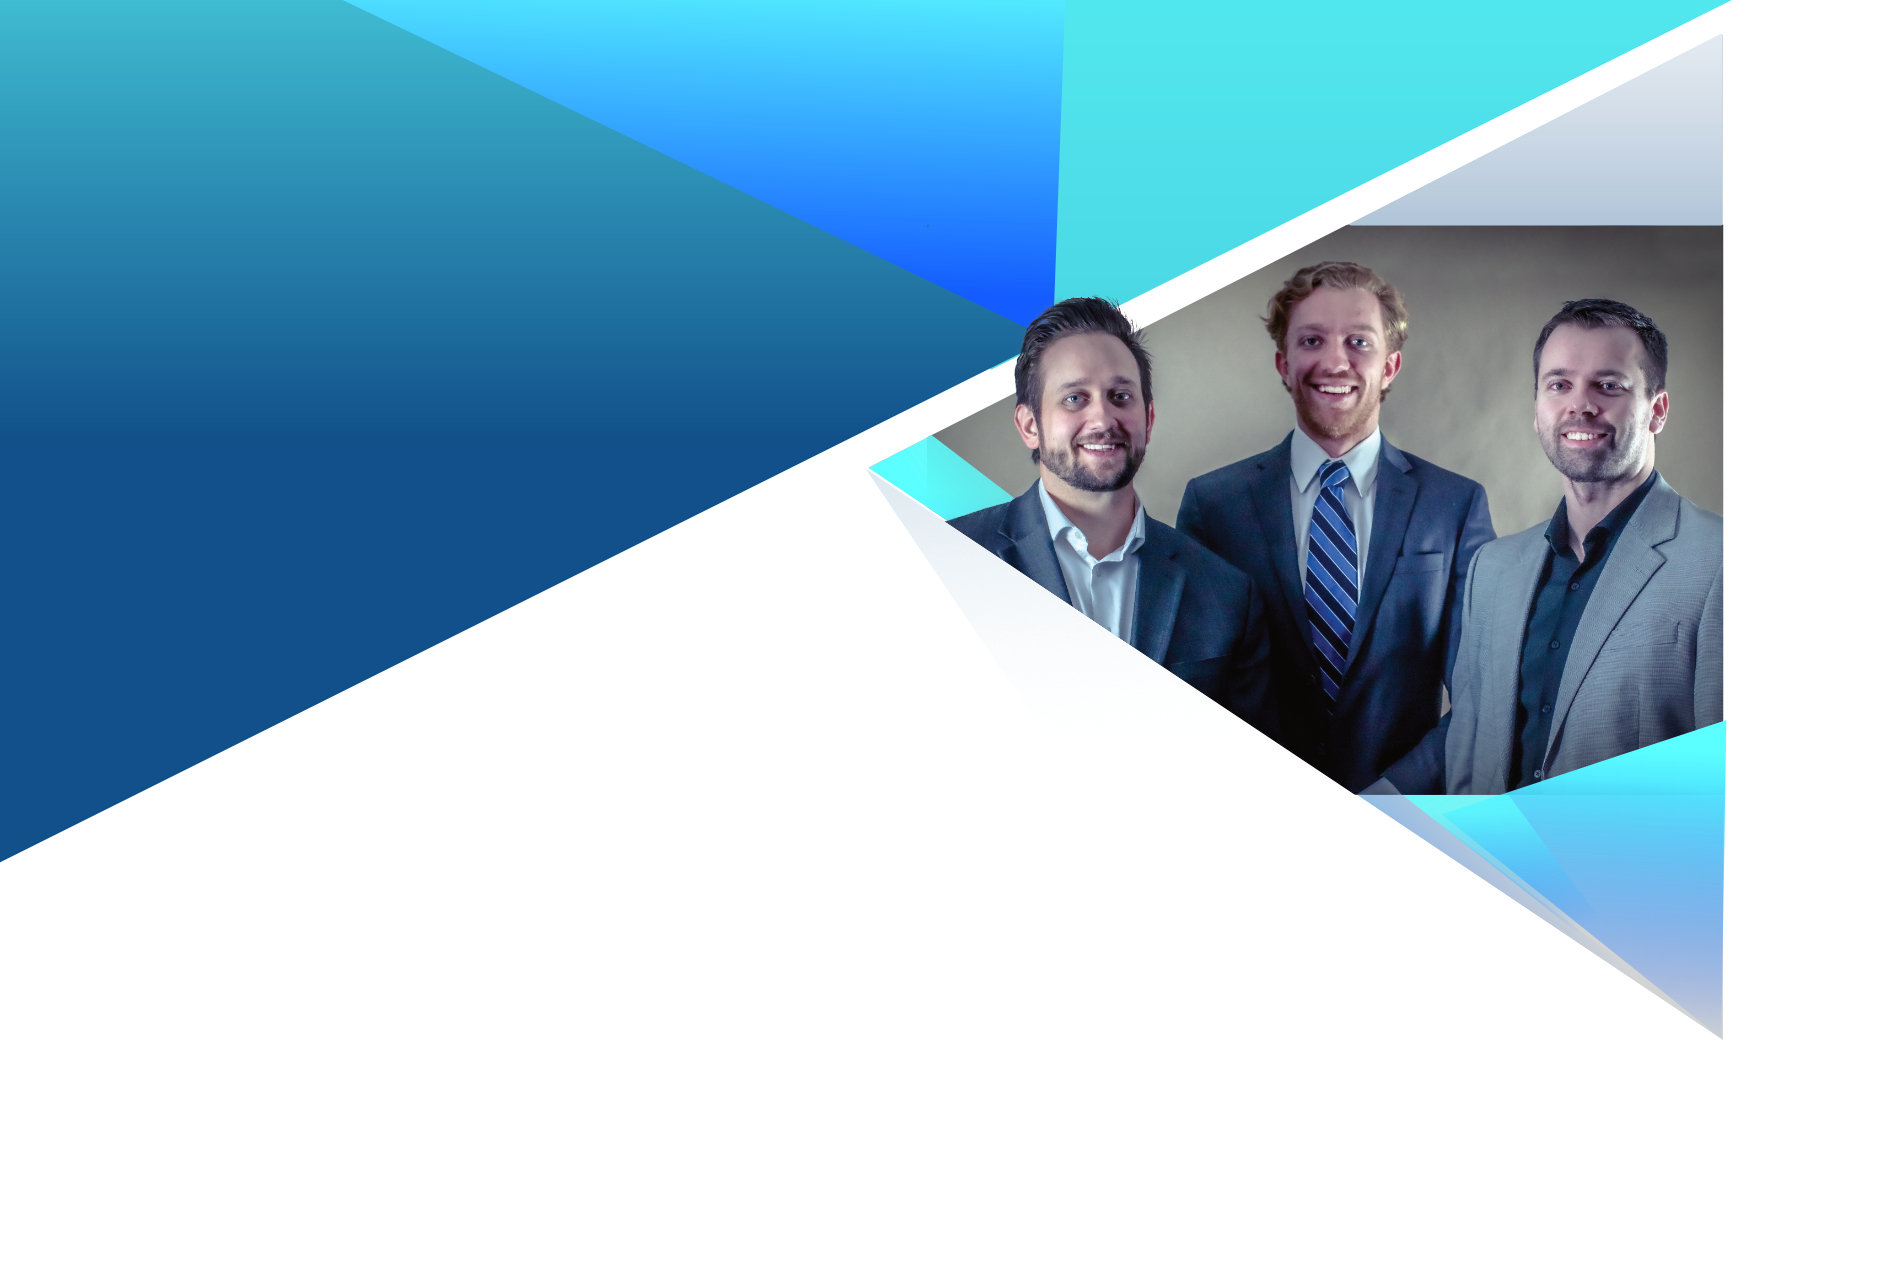
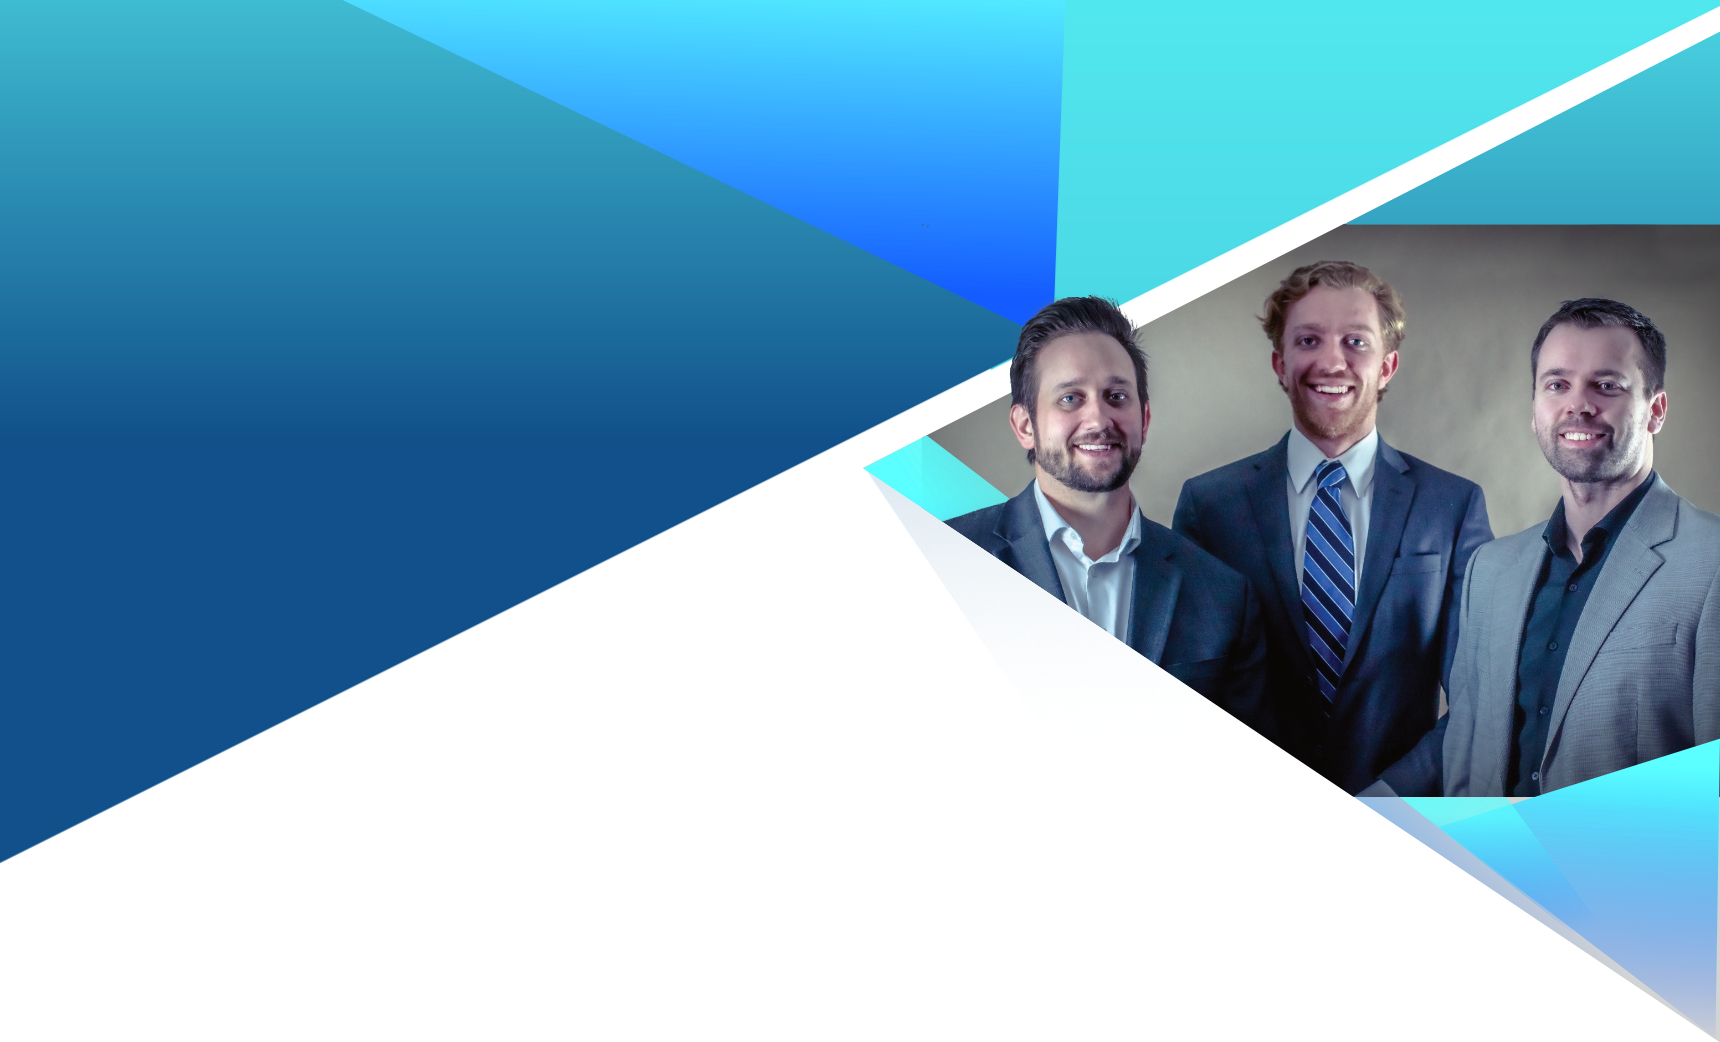
breaks
breaks

diff --git a/components/slider/main-slider.js b/components/slider/main-slider.js
@@ -3,7 +3,7 @@ import { Container, Row, Col } from "react-bootstrap";
 import { Swiper, SwiperSlide } from "swiper/react";
 import SwiperCore, { Autoplay, Pagination, EffectFade } from "swiper";
 
-import banner1 from "../../assets/images/main-slider/Cover.png";
+import banner1 from "../../assets/images/main-slider/group-photo.jpg";
 import banner2 from "../../assets/images/main-slider/lady-smartphone.jpg";
 import banner3 from "../../assets/images/group-trio.png";
 
@@ -32,15 +32,12 @@ const MainSlider = () => {
         <SwiperSlide>
           <div
             className="image-layer"
-            style={{ backgroundImage: `url(${banner3})` }}
+            style={{ backgroundImage: `url(${banner1})` }}
           ></div>
 
           <Container>
-            <div
-              className="image-layer2"
-              style={{ marginLeft:'40%', backgroundImage: `url(${banner1})` }}
-            ></div>
-            <Row className="justify-content-end">
+           
+            <Row className="justify-content-start">
               <Col xl={7} lg={12} className="text-left">
                 <p>FREE</p>
                 <h2>
@@ -58,35 +55,7 @@ const MainSlider = () => {
             </Row>
           </Container>
         </SwiperSlide>
-        {/* <SwiperSlide>
-          <div
-            className="image-layer"
-            style={{ backgroundImage: `url(${banner2})` }}
-          ></div>
-
-          <Container>
-            <Row className="justify-content-end">
-              <Col xl={8} lg={12} className="text-right">
-                <p>
-                  Everyone deserves accurate information regarding their
-                  benefits.
-                </p>
-                <h2>
-                  <span className="iconic-text">That Information</span>
-                  <br /> Should Also Be
-                  <br /> Free.
-                </h2>
-                <a
-                  href="/contact"
-                  data-target=".contact"
-                  className="scroll-to-target thm-btn "
-                >
-                  Schedule A Free Consultation
-                </a>
-              </Col>
-            </Row>
-          </Container>
-        </SwiperSlide> */}
+       
 
         <div className="swiper-pagination" id="main-slider-pagination"></div>
       </Swiper>

diff --git a/assets/css/main.css b/assets/css/main.css
@@ -799,8 +799,8 @@
 .team-4-col {
   display: -ms-grid;
   display: grid;
-  -ms-grid-columns: 1fr;
-  grid-template-columns: 1fr;
+  -ms-grid-columns: 1fr 1fr ;
+  grid-template-columns: 1fr 1fr  ;
   grid-gap: 30px;
 }
 
@@ -814,8 +814,8 @@
 @media (min-width: 1200px) {
   .team-4-col {
     -ms-grid-columns: 1fr 1fr;
-    grid-template-columns: 1fr 1fr ;
-    margin-left: 30%;
+    grid-template-columns: 1fr 1fr;
+    margin-left: 33.3%;
   }
 }
 .team-card__bio {
@@ -842,14 +842,9 @@
   border-top-right-radius: 185px;
   overflow: hidden;
   align-self: center;
-  -webkit-transition: 500ms ease;
-  transition: 500ms ease;
+
 }
 
-.team-card__image:hover  {
-  -webkit-transform: translateY(-25px);
-  transform: translateY(-25px);
-}
 @media (max-width: 575px) {
   .team-card__image {
     border-top-left-radius: 15px;
@@ -2537,7 +2532,7 @@ h6 {
   .main-header .logo-box {
     padding-left: 0;
     padding-top: 55px;
-    margin-left: -100px;
+    margin-left: -30%;
   }
 }
 
@@ -3419,14 +3414,14 @@ h6 {
   margin-bottom: -10px;
   position: absolute;
   top: 0;
-  left: 15%;
+  left: 0;
   right: 0;
   bottom: 0;
   opacity: 1;
   background-repeat: no-repeat;
   background-size:contain;
   z-index: -1;
-  margin-left:-75%;
+ 
  
   -webkit-transform: scale(1.5);
   transform: scale(1.5); 
@@ -3449,7 +3444,7 @@ h6 {
 
 @media (max-width: 575px) {
   .main-slider .container  {
-    margin-top: -100px;
+    margin-top: -50px;
     padding-top: -220px;
   }
 }
@@ -3513,7 +3508,7 @@ h6 {
   .main-slider h2 {
     font-size: 60px;
     line-height: 1.3;
-    margin-top: 30%;
+    margin-top: 10%;
   }
 }
 
@@ -3521,14 +3516,14 @@ h6 {
 @media (max-width: 575px) {
   .main-slider h2 {
     font-size: 50px;
-    margin-top: 40%;
+    margin-top: 10%;
   }
 }
 @media (max-width: 575px) {
   .main-slider p {
     font-size: 30px;
-    margin-top: 40%;
-    margin-bottom: -40%;
+    margin-top: 20%;
+    margin-bottom: -10%;
   }
 }
 

diff --git a/components/about/about-one.js b/components/about/about-one.js
@@ -21,25 +21,27 @@ const AboutOne = () => {
           <Row>
             <Col md={12} lg={4}>
               <div className="block-title">
-                <p>
-                  Make a Difference
-                </p>
+                <p>Make a Difference</p>
                 <h3>Knowledge is the key to a stress-free financial plan .</h3>
               </div>
             </Col>
             <Col md={12} lg={4}>
+              <div className="block-title">
+                <h5>Vision Statement</h5>
+              </div>
               <p className="team-about__top-text">
-              We at Dugan Brown believe that every individual has the right 
-              to enjoy a stress-free retirement. Every person, young or old, 
-              no matter their background, deserves to fully understand what 
-              benefits they have available to them. 
+                A society whose civil servants and military personnel can
+                transition to retirement seamlessly, without financial concerns.
               </p>
             </Col>
             <Col md={12} lg={4}>
+              <div className="block-title">
+                <h5>Mission Statement</h5>
+              </div>
               <p className="team-about__top-text">
-              Every employee should have  unrestricted access to resources that 
-              provide them with simple and easy-to-understand explanations of 
-              strategies in order to maximize their retirement.
+                To empower every federal employee, no matter their background,
+                with unrestricted access to reliable and easy-to-understand
+                information about their retirement.
               </p>
             </Col>
           </Row>

diff --git a/components/team/team-carousel.js b/components/team/team-carousel.js
@@ -79,7 +79,7 @@ const TeamCarousel = () => {
                   >
                     <img src={image} alt="" />
                   </div>
-                  <div className="event-card mb-50" style={{ padding: 30 }}>
+                  <div className="event-card mb-50" >
                     <div
                       className="header-info__box"
                       style={{ paddingTop: 20, alignContent: "center" }}
@@ -100,8 +100,8 @@ const TeamCarousel = () => {
                     </div>
                     {/* ...> */}
                     <div
-                      className="event-card-content pl-30 pr-30"
-                      style={{ padding: 30 }}
+                      className="event-card-content "
+                      
                     >
                       <p>{bio}</p>
                     </div>

diff --git a/pages/about.js b/pages/about.js
@@ -8,8 +8,6 @@ import AboutCounter from "../components/about/about-counter";
 import BrandCarousel from "../components/brand-carousel";
 import Footer from "../components/footer";
 import TeamCarousel from "../components/team/team-carousel";
-import CallToActionTwo from "../components/call-to-action/call-to-action-two";
-import CallToAction from "../components/call-to-action/call-to-action";
 
 const About = () => {
   return (
@@ -17,9 +15,9 @@ const About = () => {
       <HeaderOne />
       <PageHeader title="About Us" crumbTitle="About" />
       <StickyHeader />
-      <CallToAction />
+      
       <AboutOne />
-      <CallToActionTwo />
+     
       <AboutCounter />
       <div style={{ height: 100 }} />
       <TeamCarousel />

diff --git a/components/header/header-one.js b/components/header/header-one.js
@@ -116,11 +116,11 @@ const HeaderOne = () => {
                       <p
                         style={{
                           color: "grey",
-                          marginLeft: -4,
+                          marginLeft: 0,
                           marginBottom: 0,
                         }}
                       >
-                        (877-327-3239)
+                        877-327-3239
                       </p>
                     </a>
                   </li>
